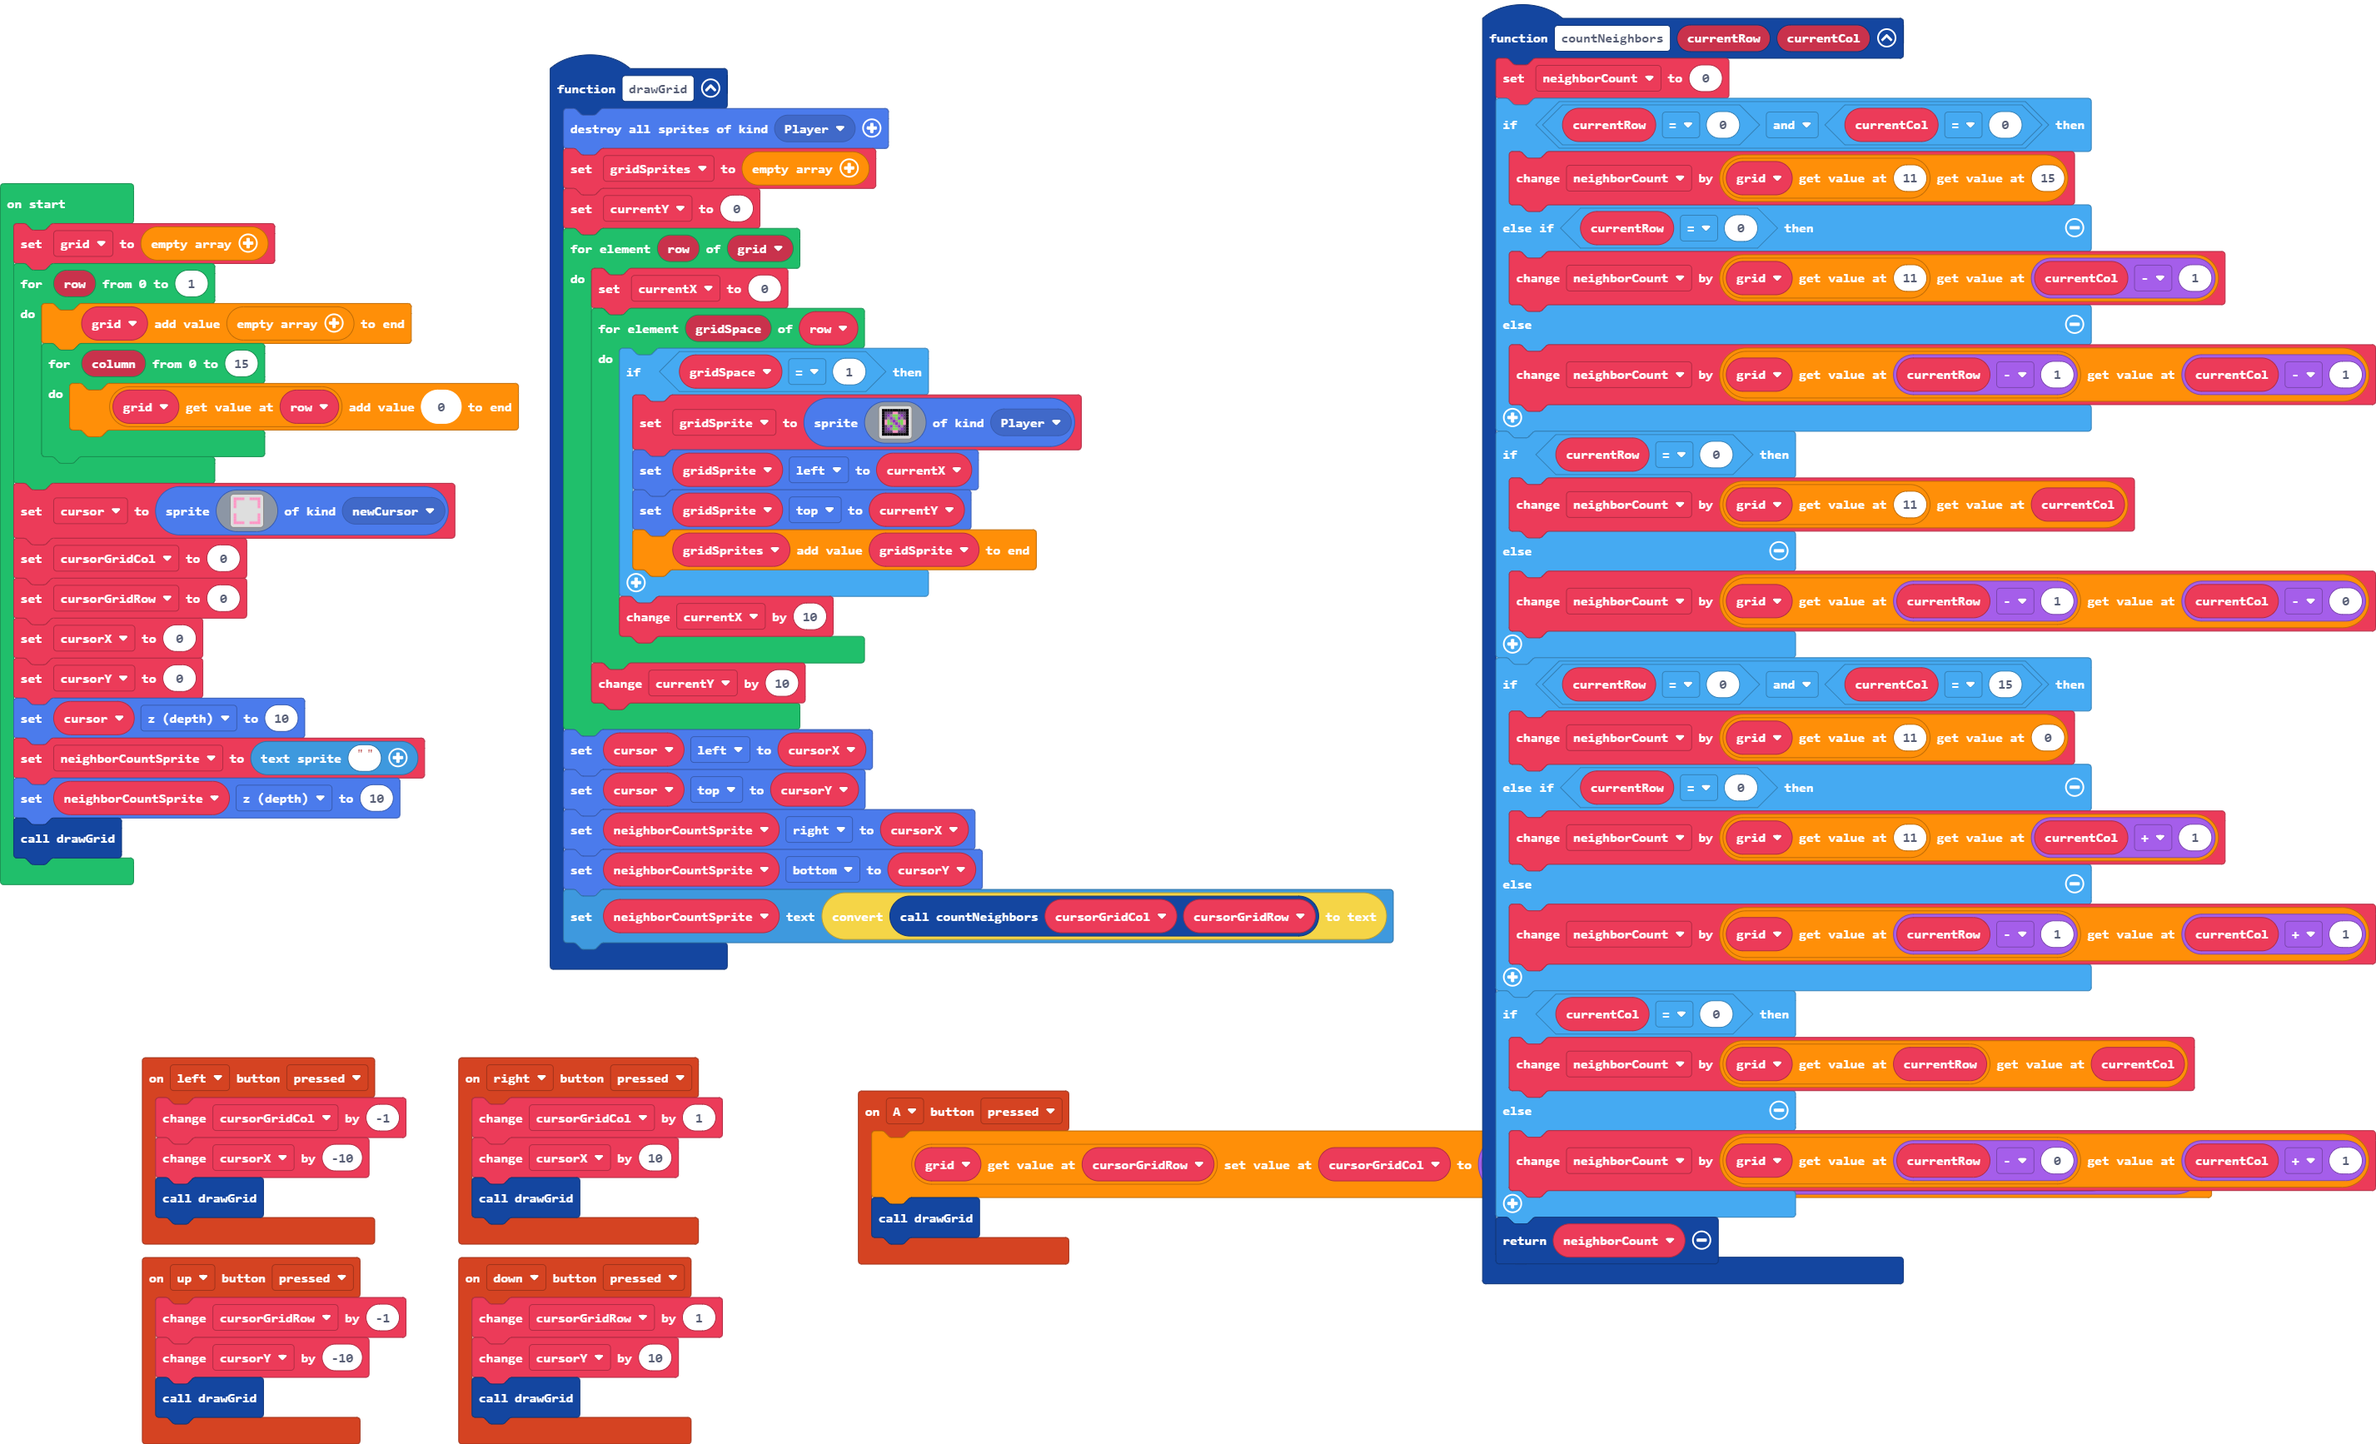
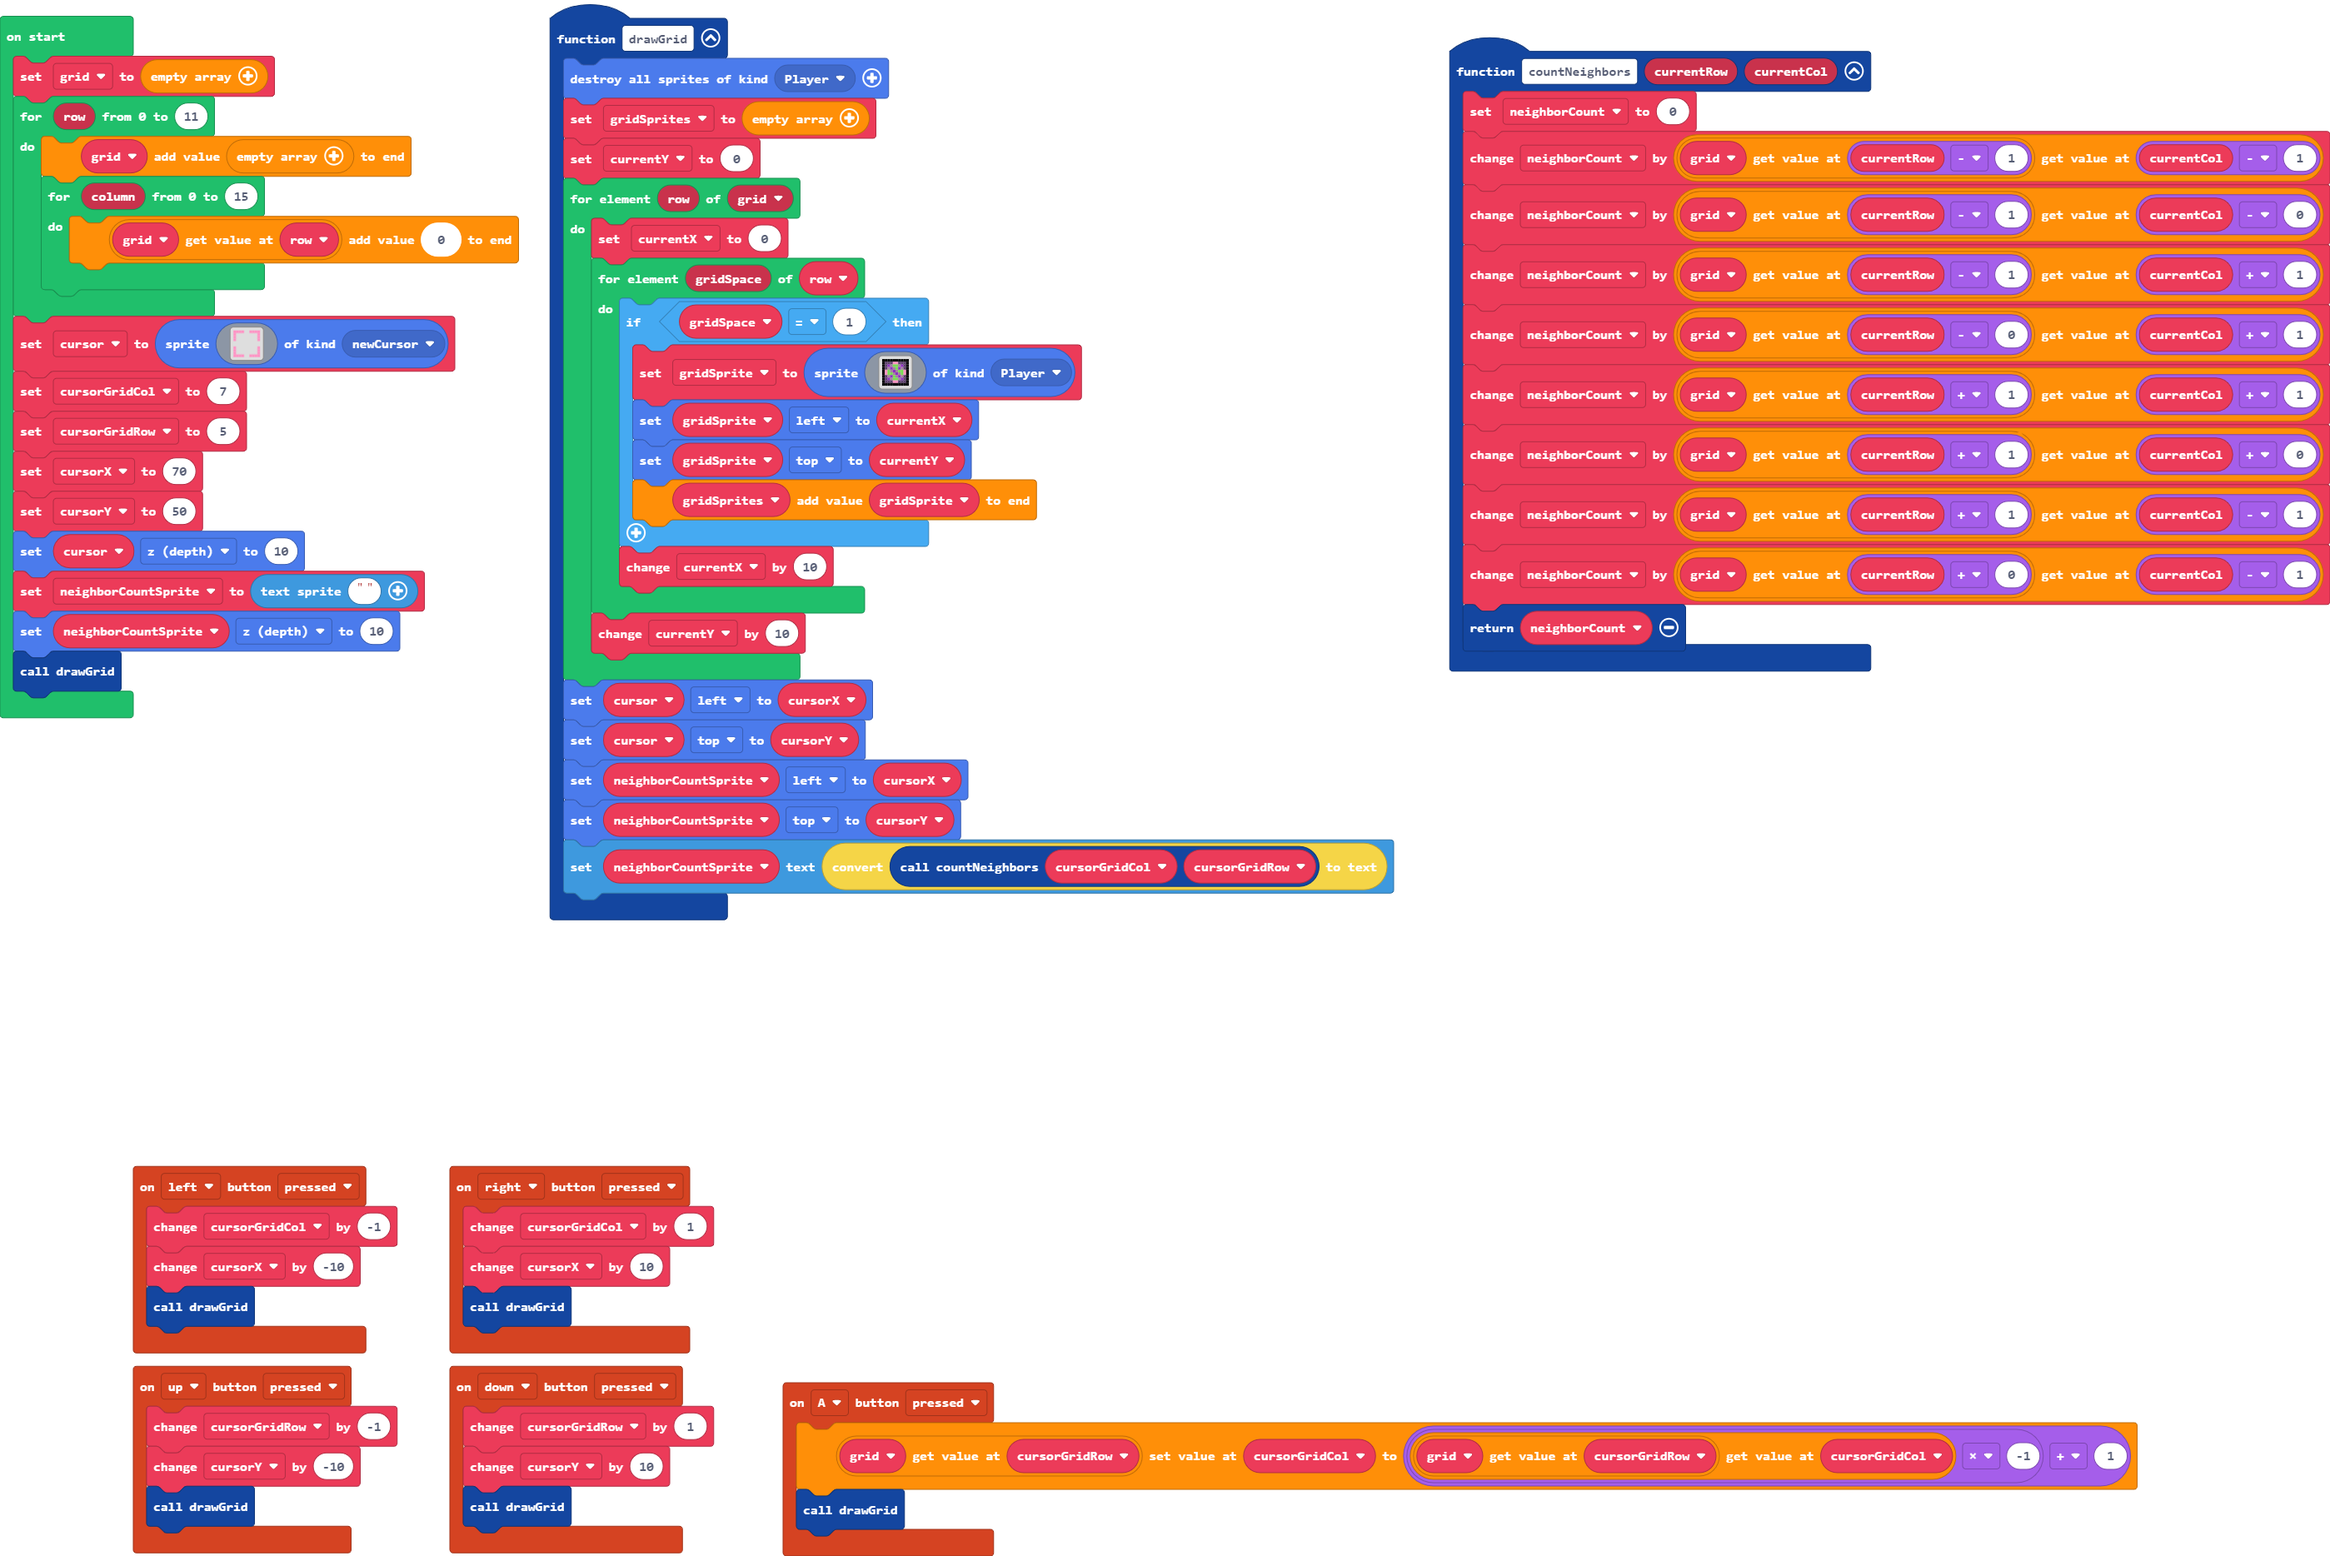
counting without edge

diff --git a/main.ts b/main.ts
@@ -51,36 +51,20 @@ function drawGrid () {
     }
     cursor.left = cursorX
     cursor.top = cursorY
-    neighborCountSprite.right = cursorX
-    neighborCountSprite.bottom = cursorY
+    neighborCountSprite.left = cursorX
+    neighborCountSprite.top = cursorY
     neighborCountSprite.setText(convertToText(countNeighbors(cursorGridCol, cursorGridRow)))
 }
 function countNeighbors (currentRow: number, currentCol: number) {
     neighborCount = 0
-    if (currentRow == 0 && currentCol == 0) {
-        neighborCount += grid[11][15]
-    } else if (currentRow == 0) {
-        neighborCount += grid[11][currentCol - 1]
-    } else {
-        neighborCount += grid[currentRow - 1][currentCol - 1]
-    }
-    if (currentRow == 0) {
-        neighborCount += grid[11][currentCol]
-    } else {
-        neighborCount += grid[currentRow - 1][currentCol - 0]
-    }
-    if (currentRow == 0 && currentCol == 15) {
-        neighborCount += grid[11][0]
-    } else if (currentRow == 0) {
-        neighborCount += grid[11][currentCol + 1]
-    } else {
-        neighborCount += grid[currentRow - 1][currentCol + 1]
-    }
-    if (currentCol == 0) {
-        neighborCount += grid[currentRow][currentCol]
-    } else {
-        neighborCount += grid[currentRow - 0][currentCol + 1]
-    }
+    neighborCount += grid[currentRow - 1][currentCol - 1]
+    neighborCount += grid[currentRow - 1][currentCol - 0]
+    neighborCount += grid[currentRow - 1][currentCol + 1]
+    neighborCount += grid[currentRow - 0][currentCol + 1]
+    neighborCount += grid[currentRow + 1][currentCol + 1]
+    neighborCount += grid[currentRow + 1][currentCol + 0]
+    neighborCount += grid[currentRow + 1][currentCol - 1]
+    neighborCount += grid[currentRow + 0][currentCol - 1]
     return neighborCount
 }
 controller.down.onEvent(ControllerButtonEvent.Pressed, function () {
@@ -101,7 +85,7 @@ let cursorGridCol = 0
 let cursor: Sprite = null
 let grid: number[][] = []
 grid = []
-for (let row = 0; row <= 1; row++) {
+for (let row = 0; row <= 11; row++) {
     grid.push([])
     for (let column = 0; column <= 15; column++) {
         grid[row].push(0)
@@ -119,10 +103,10 @@ cursor = sprites.create(img`
     3 . . . . . . . . 3 
     3 3 3 3 . . 3 3 3 3 
     `, SpriteKind.newCursor)
-cursorGridCol = 0
-cursorGridRow = 0
-cursorX = 0
-cursorY = 0
+cursorGridCol = 7
+cursorGridRow = 5
+cursorX = 70
+cursorY = 50
 cursor.z = 10
 neighborCountSprite = textsprite.create("")
 neighborCountSprite.z = 10
